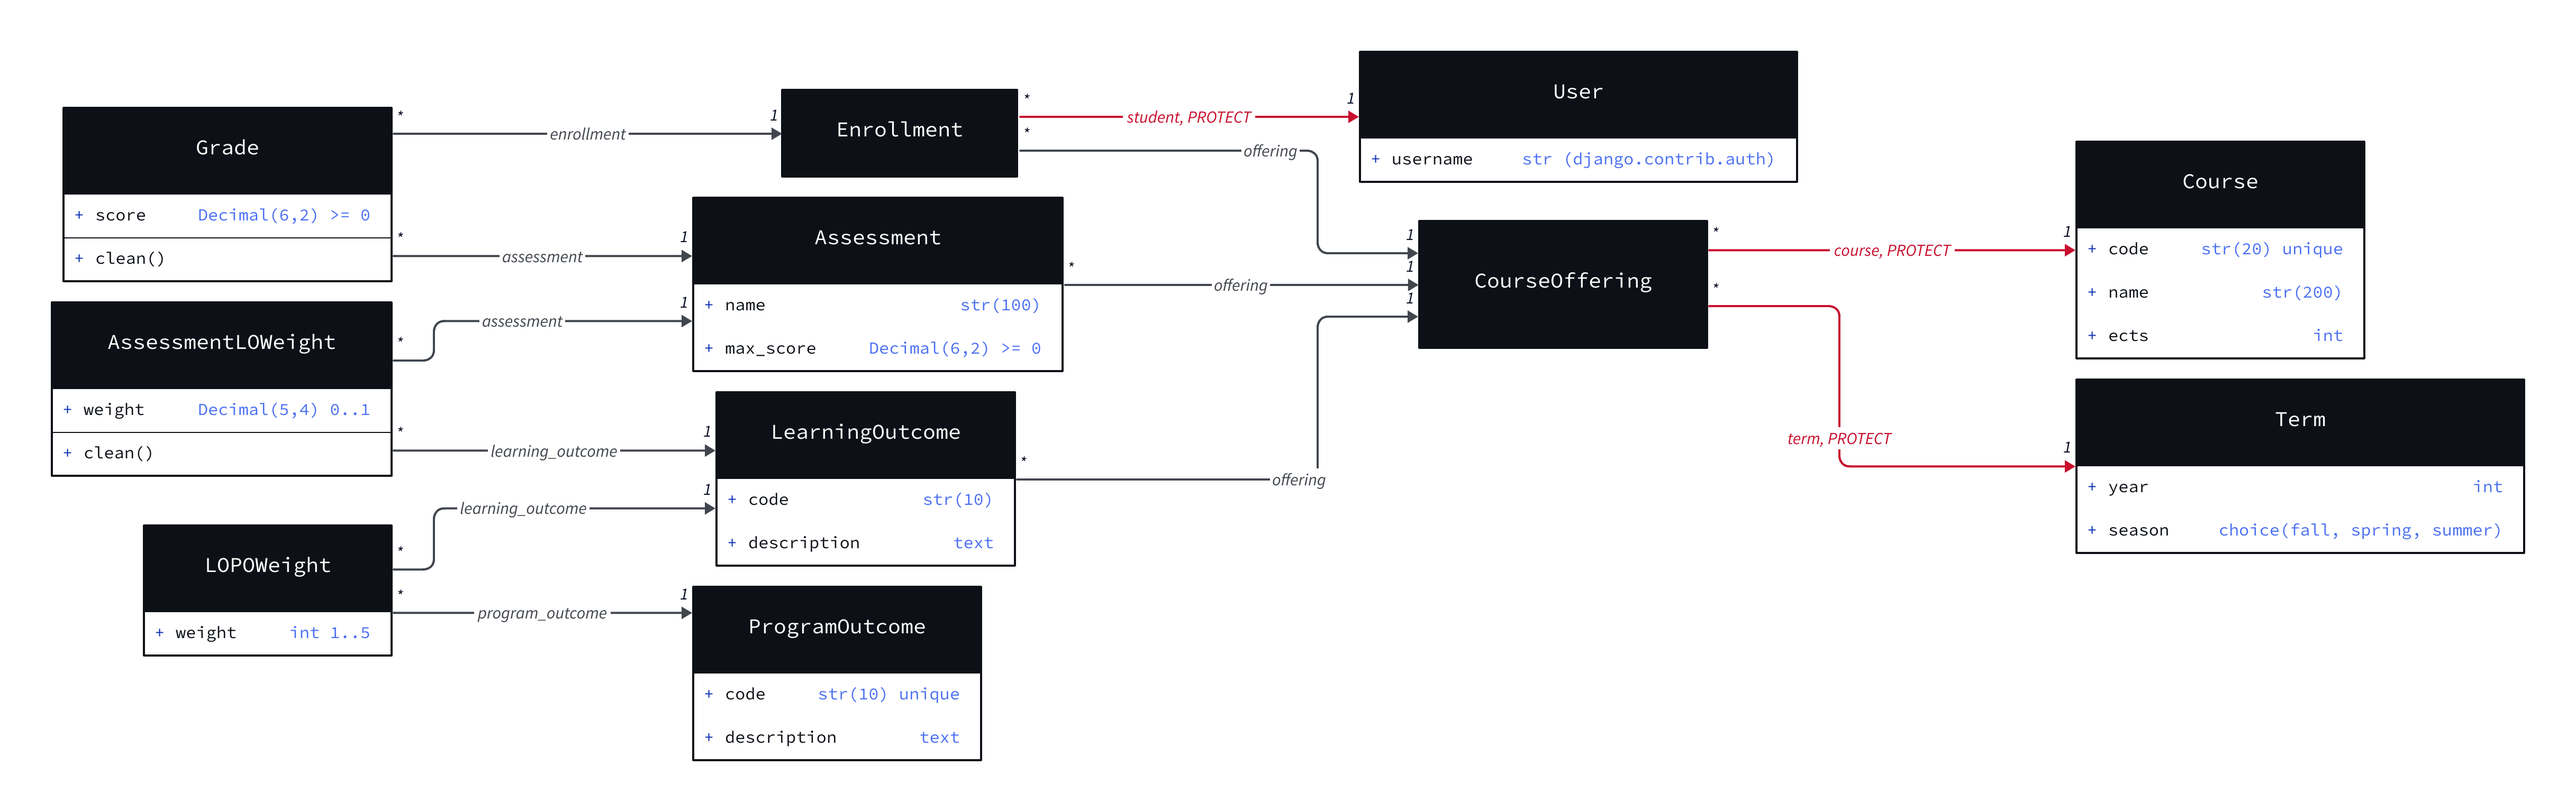
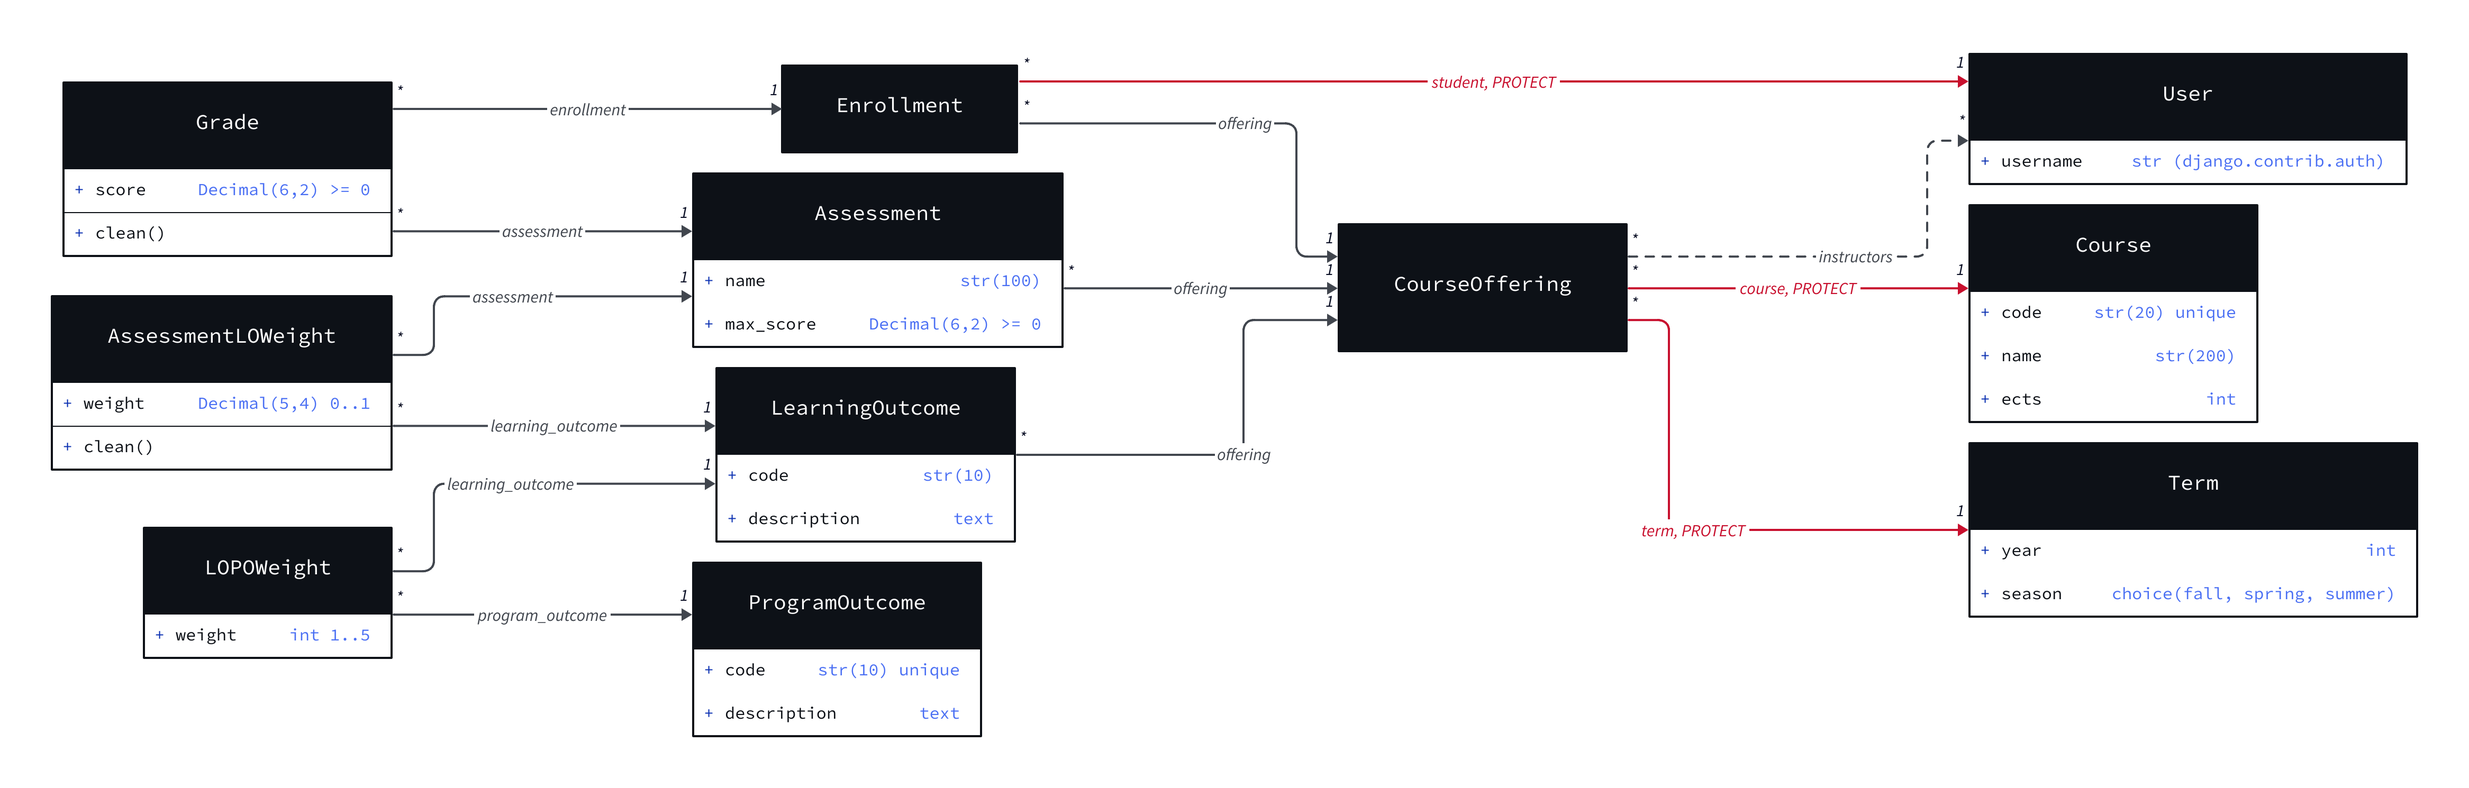
Roles and permissions (#68)
* Roles: student, instructor, head of department, with access rules and tests

* Draw many to many links in the class diagram

* Renumber the roles migration after the materialized views

* Point the roles migration at the materialized views migration

diff --git a/grading/test_access.py b/grading/test_access.py
@@ -1,0 +1,112 @@
+from django.contrib.auth import get_user_model
+from django.contrib.auth.models import AnonymousUser, Group
+from django.test import TestCase
+
+from . import access
+from .models import Assessment, Course, CourseOffering, Enrollment, Grade, Term
+
+
+class AccessTests(TestCase):
+    """Two offerings, one instructor each, two students in different courses."""
+
+    @classmethod
+    def setUpTestData(cls):
+        User = get_user_model()
+        groups = {name: Group.objects.get(name=name) for name in access.ROLES}
+
+        def user(name, *roles, **extra):
+            u = User.objects.create_user(username=name, **extra)
+            u.groups.add(*(groups[r] for r in roles))
+            return u
+
+        cls.elif_ = user("elif", access.STUDENT)
+        cls.mert = user("mert", access.STUDENT)
+        cls.ayse = user("ayse", access.INSTRUCTOR)
+        cls.kemal = user("kemal", access.INSTRUCTOR)
+        cls.head = user("head", access.HEAD)
+        cls.nobody = user("nobody")
+        cls.admin = user("admin", is_superuser=True)
+        cls.inactive = user("inactive", access.HEAD, is_active=False)
+
+        term = Term.objects.create(year=2026, season=Term.Season.FALL)
+        cls.cse321 = CourseOffering.objects.create(
+            course=Course.objects.create(code="CSE321", name="Data Systems", ects=6), term=term
+        )
+        cls.cse311 = CourseOffering.objects.create(
+            course=Course.objects.create(code="CSE311", name="Software", ects=6), term=term
+        )
+        cls.cse321.instructors.add(cls.ayse)
+        cls.cse311.instructors.add(cls.kemal)
+
+        for offering, student in ((cls.cse321, cls.elif_), (cls.cse311, cls.mert)):
+            enrollment = Enrollment.objects.create(offering=offering, student=student)
+            exam = Assessment.objects.create(offering=offering, name="Midterm")
+            Grade.objects.create(enrollment=enrollment, assessment=exam, score=80)
+
+    def students_in(self, qs, path):
+        return set(qs.values_list(path, flat=True))
+
+    def test_role_groups_exist_after_migrate(self):
+        self.assertEqual(
+            set(Group.objects.values_list("name", flat=True)) & set(access.ROLES),
+            set(access.ROLES),
+        )
+
+    def test_roles(self):
+        self.assertEqual(access.role_of(self.elif_), access.STUDENT)
+        self.assertEqual(access.role_of(self.ayse), access.INSTRUCTOR)
+        self.assertEqual(access.role_of(self.head), access.HEAD)
+        self.assertEqual(access.role_of(self.admin), access.HEAD)
+        self.assertIsNone(access.role_of(self.nobody))
+        self.assertIsNone(access.role_of(self.inactive))
+        self.assertIsNone(access.role_of(AnonymousUser()))
+
+    def test_widest_role_wins(self):
+        self.mert.groups.add(Group.objects.get(name=access.INSTRUCTOR))
+        self.assertEqual(access.role_of(self.mert), access.INSTRUCTOR)
+
+    def test_student_sees_only_own_data(self):
+        self.assertEqual(list(access.visible_offerings(self.elif_)), [self.cse321])
+        self.assertEqual(self.students_in(access.visible_enrollments(self.elif_), "student"), {self.elif_.pk})
+        self.assertEqual(
+            self.students_in(access.visible_grades(self.elif_), "enrollment__student"), {self.elif_.pk}
+        )
+
+    def test_instructor_sees_only_their_offerings(self):
+        self.assertEqual(list(access.visible_offerings(self.ayse)), [self.cse321])
+        self.assertEqual(self.students_in(access.visible_enrollments(self.ayse), "student"), {self.elif_.pk})
+        self.assertEqual(
+            self.students_in(access.visible_grades(self.ayse), "enrollment__student"), {self.elif_.pk}
+        )
+
+    def test_head_sees_everything(self):
+        for viewer in (self.head, self.admin):
+            self.assertEqual(access.visible_offerings(viewer).count(), 2)
+            self.assertEqual(access.visible_enrollments(viewer).count(), 2)
+            self.assertEqual(access.visible_grades(viewer).count(), 2)
+
+    def test_no_role_sees_nothing(self):
+        for viewer in (self.nobody, self.inactive, AnonymousUser()):
+            self.assertFalse(access.visible_offerings(viewer).exists())
+            self.assertFalse(access.visible_enrollments(viewer).exists())
+            self.assertFalse(access.visible_grades(viewer).exists())
+
+    def test_student_offerings_not_duplicated(self):
+        # Two enrollments would not happen (unique), but a join on a second
+        # relation could still repeat rows; distinct() keeps the list clean.
+        self.assertEqual(access.visible_offerings(self.elif_).count(), 1)
+
+    def test_can_view_student(self):
+        cases = (
+            (self.elif_, self.elif_, True),
+            (self.elif_, self.mert, False),
+            (self.ayse, self.elif_, True),
+            (self.ayse, self.mert, False),
+            (self.kemal, self.mert, True),
+            (self.head, self.mert, True),
+            (self.nobody, self.elif_, False),
+            (self.inactive, self.elif_, False),
+        )
+        for viewer, student, expected in cases:
+            with self.subTest(viewer=viewer.username, student=student.username):
+                self.assertEqual(access.can_view_student(viewer, student), expected)

diff --git a/grading/access.py b/grading/access.py
@@ -1,0 +1,89 @@
+"""Who can see what.
+
+Three roles, kept as Django groups:
+
+- Student: only their own enrollments and grades.
+- Instructor: the offerings they teach (CourseOffering.instructors), with all
+  enrollments and grades in them.
+- Head of department: everything. There is one department for now (see
+  docs/decisions/0007-roles.md).
+
+A superuser counts as head. A user in more than one group gets the widest role.
+Views and querysets should go through these functions instead of filtering
+by hand, so the rules live in one place.
+"""
+
+from .models import CourseOffering, Enrollment, Grade
+
+STUDENT = "Student"
+INSTRUCTOR = "Instructor"
+HEAD = "Head of department"
+
+ROLES = (STUDENT, INSTRUCTOR, HEAD)
+
+
+def role_of(user):
+    """The widest role the user has, or None."""
+    if not user.is_authenticated or not user.is_active:
+        return None
+    if user.is_superuser:
+        return HEAD
+    names = set(user.groups.values_list("name", flat=True))
+    for role in (HEAD, INSTRUCTOR, STUDENT):
+        if role in names:
+            return role
+    return None
+
+
+def visible_offerings(user):
+    role = role_of(user)
+    qs = CourseOffering.objects.all()
+    if role == HEAD:
+        return qs
+    if role == INSTRUCTOR:
+        return qs.filter(instructors=user)
+    if role == STUDENT:
+        return qs.filter(enrollments__student=user).distinct()
+    return qs.none()
+
+
+def visible_enrollments(user):
+    role = role_of(user)
+    qs = Enrollment.objects.all()
+    if role == HEAD:
+        return qs
+    if role == INSTRUCTOR:
+        return qs.filter(offering__instructors=user)
+    if role == STUDENT:
+        return qs.filter(student=user)
+    return qs.none()
+
+
+def visible_grades(user):
+    role = role_of(user)
+    qs = Grade.objects.all()
+    if role == HEAD:
+        return qs
+    if role == INSTRUCTOR:
+        return qs.filter(enrollment__offering__instructors=user)
+    if role == STUDENT:
+        return qs.filter(enrollment__student=user)
+    return qs.none()
+
+
+def can_view_student(viewer, student):
+    """Can `viewer` open `student`'s profile (PO scores across courses)?
+
+    An instructor who teaches the student in one course may see the profile,
+    but visible_grades() still limits the numbers to their own offerings.
+    """
+    role = role_of(viewer)
+    if role is None:
+        return False
+    if role == HEAD:
+        return True
+    if viewer.pk == student.pk:
+        return True
+    if role == INSTRUCTOR:
+        return Enrollment.objects.filter(student=student, offering__instructors=viewer).exists()
+    return False

diff --git a/grading/migrations/0003_offering_instructors_and_roles.py b/grading/migrations/0003_offering_instructors_and_roles.py
@@ -1,0 +1,33 @@
+# Generated by Django 5.2.18 on 2026-11-07 12:15
+
+from django.conf import settings
+from django.db import migrations, models
+
+ROLES = ("Student", "Instructor", "Head of department")
+
+
+def create_role_groups(apps, schema_editor):
+    Group = apps.get_model("auth", "Group")
+    for name in ROLES:
+        Group.objects.get_or_create(name=name)
+
+
+def delete_role_groups(apps, schema_editor):
+    apps.get_model("auth", "Group").objects.filter(name__in=ROLES).delete()
+
+
+class Migration(migrations.Migration):
+
+    dependencies = [
+        ('grading', '0002_materialized_views'),
+        migrations.swappable_dependency(settings.AUTH_USER_MODEL),
+    ]
+
+    operations = [
+        migrations.AddField(
+            model_name='courseoffering',
+            name='instructors',
+            field=models.ManyToManyField(blank=True, related_name='teaching', to=settings.AUTH_USER_MODEL),
+        ),
+        migrations.RunPython(create_role_groups, delete_role_groups),
+    ]

diff --git a/grading/management/commands/class_diagram.py b/grading/management/commands/class_diagram.py
@@ -126,6 +126,16 @@ def render(app_label="grading"):
             lines.append(f'  style: {{stroke: "{color}"; stroke-width: 2; font-color: "{color}"}}')
             lines.append("}")
 
+    # Many to many links: many on both sides.
+    for model in app_models:
+        for field in model._meta.many_to_many:
+            target = field.related_model.__name__
+            lines.append(f'{model.__name__} -> {target}: "{field.name}" {{')
+            lines.append('  source-arrowhead.label: "*"')
+            lines.append('  target-arrowhead.label: "*"')
+            lines.append('  style: {stroke: "#41464E"; stroke-width: 2; stroke-dash: 4; font-color: "#41464E"}')
+            lines.append("}")
+
     return "\n".join(lines) + "\n"
 
 

diff --git a/grading/test_class_diagram.py b/grading/test_class_diagram.py
@@ -11,3 +11,13 @@ class ClassDiagramTests(SimpleTestCase):
             render(),
             "Run `python manage.py class_diagram` and re-render docs/classes.png.",
         )
+
+    def test_every_relation_is_drawn(self):
+        """Foreign keys and many to many fields all show up as links."""
+        from django.apps import apps
+
+        diagram = render()
+        for model in apps.get_app_config("grading").get_models():
+            for field in model._meta.get_fields():
+                if field.concrete and (field.many_to_one or field.many_to_many):
+                    self.assertIn(f'{model.__name__} -> {field.related_model.__name__}: "{field.name}', diagram)

diff --git a/grading/models.py b/grading/models.py
@@ -63,6 +63,10 @@ class CourseOffering(models.Model):
 
     course = models.ForeignKey(Course, on_delete=models.PROTECT, related_name="offerings")
     term = models.ForeignKey(Term, on_delete=models.PROTECT, related_name="offerings")
+    # Who teaches this offering. Instructors see only the offerings listed here.
+    instructors = models.ManyToManyField(
+        settings.AUTH_USER_MODEL, blank=True, related_name="teaching"
+    )
 
     class Meta:
         ordering = ("-term__year", "term__season", "course__code")

diff --git a/grading/admin.py b/grading/admin.py
@@ -54,6 +54,7 @@ class CourseOfferingAdmin(admin.ModelAdmin):
     list_select_related = ("course", "term")
     search_fields = ("course__code", "course__name")
     autocomplete_fields = ("course",)
+    filter_horizontal = ("instructors",)
     inlines = (LearningOutcomeInline, AssessmentInline, EnrollmentInline)
 
 

diff --git a/docs/decisions/0007-roles.md b/docs/decisions/0007-roles.md
@@ -1,0 +1,10 @@
+# 7. Roles as groups, one department
+
+Three Django groups, created by migration 0002: Student, Instructor, Head of department. Instructors are linked to
+offerings, not courses (`CourseOffering.instructors`), because who teaches a course changes between terms. The rules
+are in `grading/access.py`; views ask it instead of filtering on their own.
+
+There is no Department model. The POs belong to one program, so "head sees the department" means the head sees
+everything. If a second department comes in, Course gets a department FK and `access.py` filters on it.
+
+Status: proposed, team to confirm.
